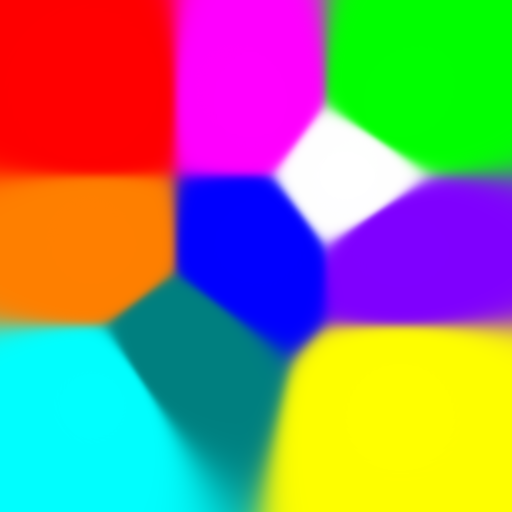
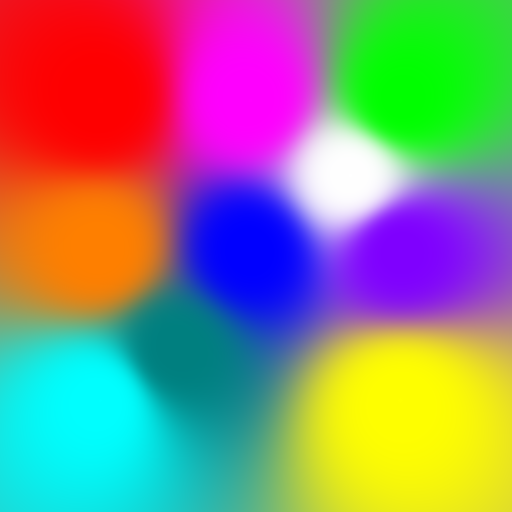
Updated values

diff --git a/apps/shepard/main.cpp b/apps/shepard/main.cpp
@@ -6,7 +6,7 @@
 int main() {
     int width = 512;
     int height = 512;
-    float q = 15.0; // How fast a point's influence drops with distance
+    float q = 4.0; // How fast a point's influence drops with distance
 
     // Points (x, y, r, g, b)
     std::vector<Point> points = {
